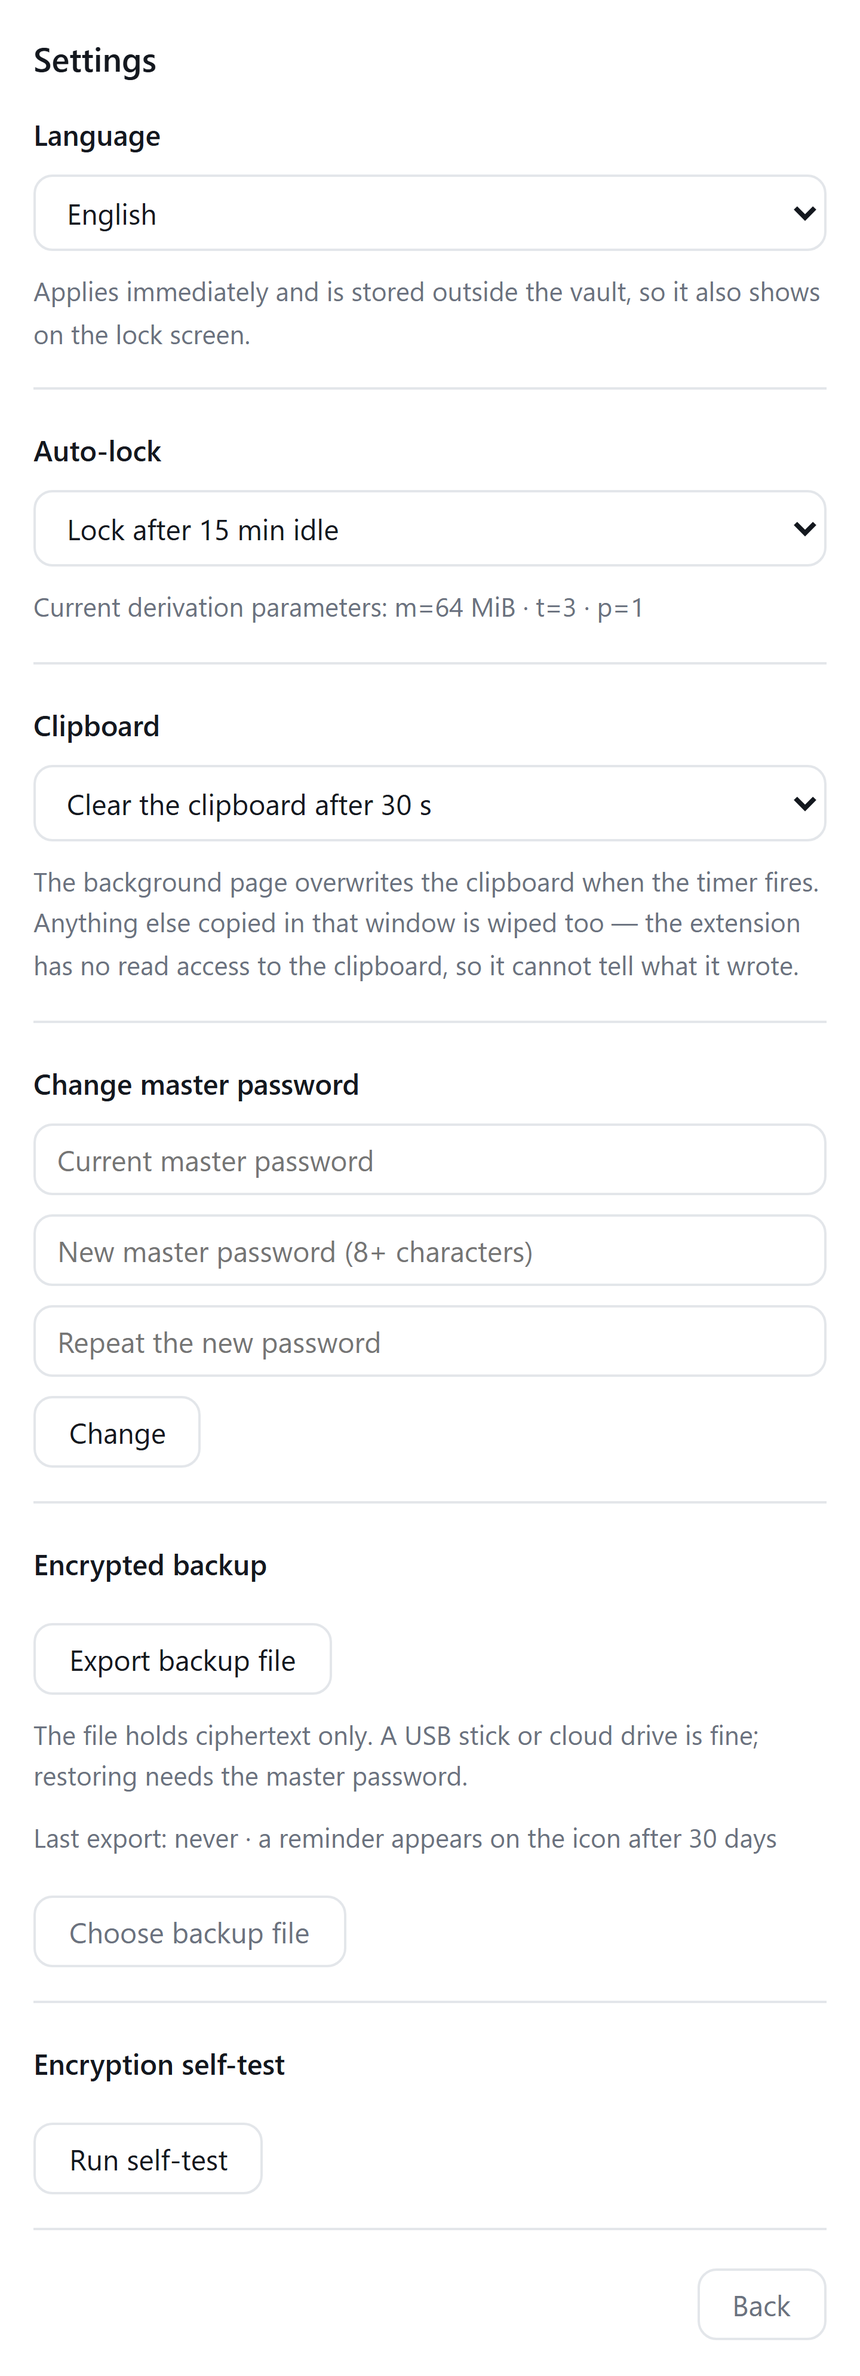
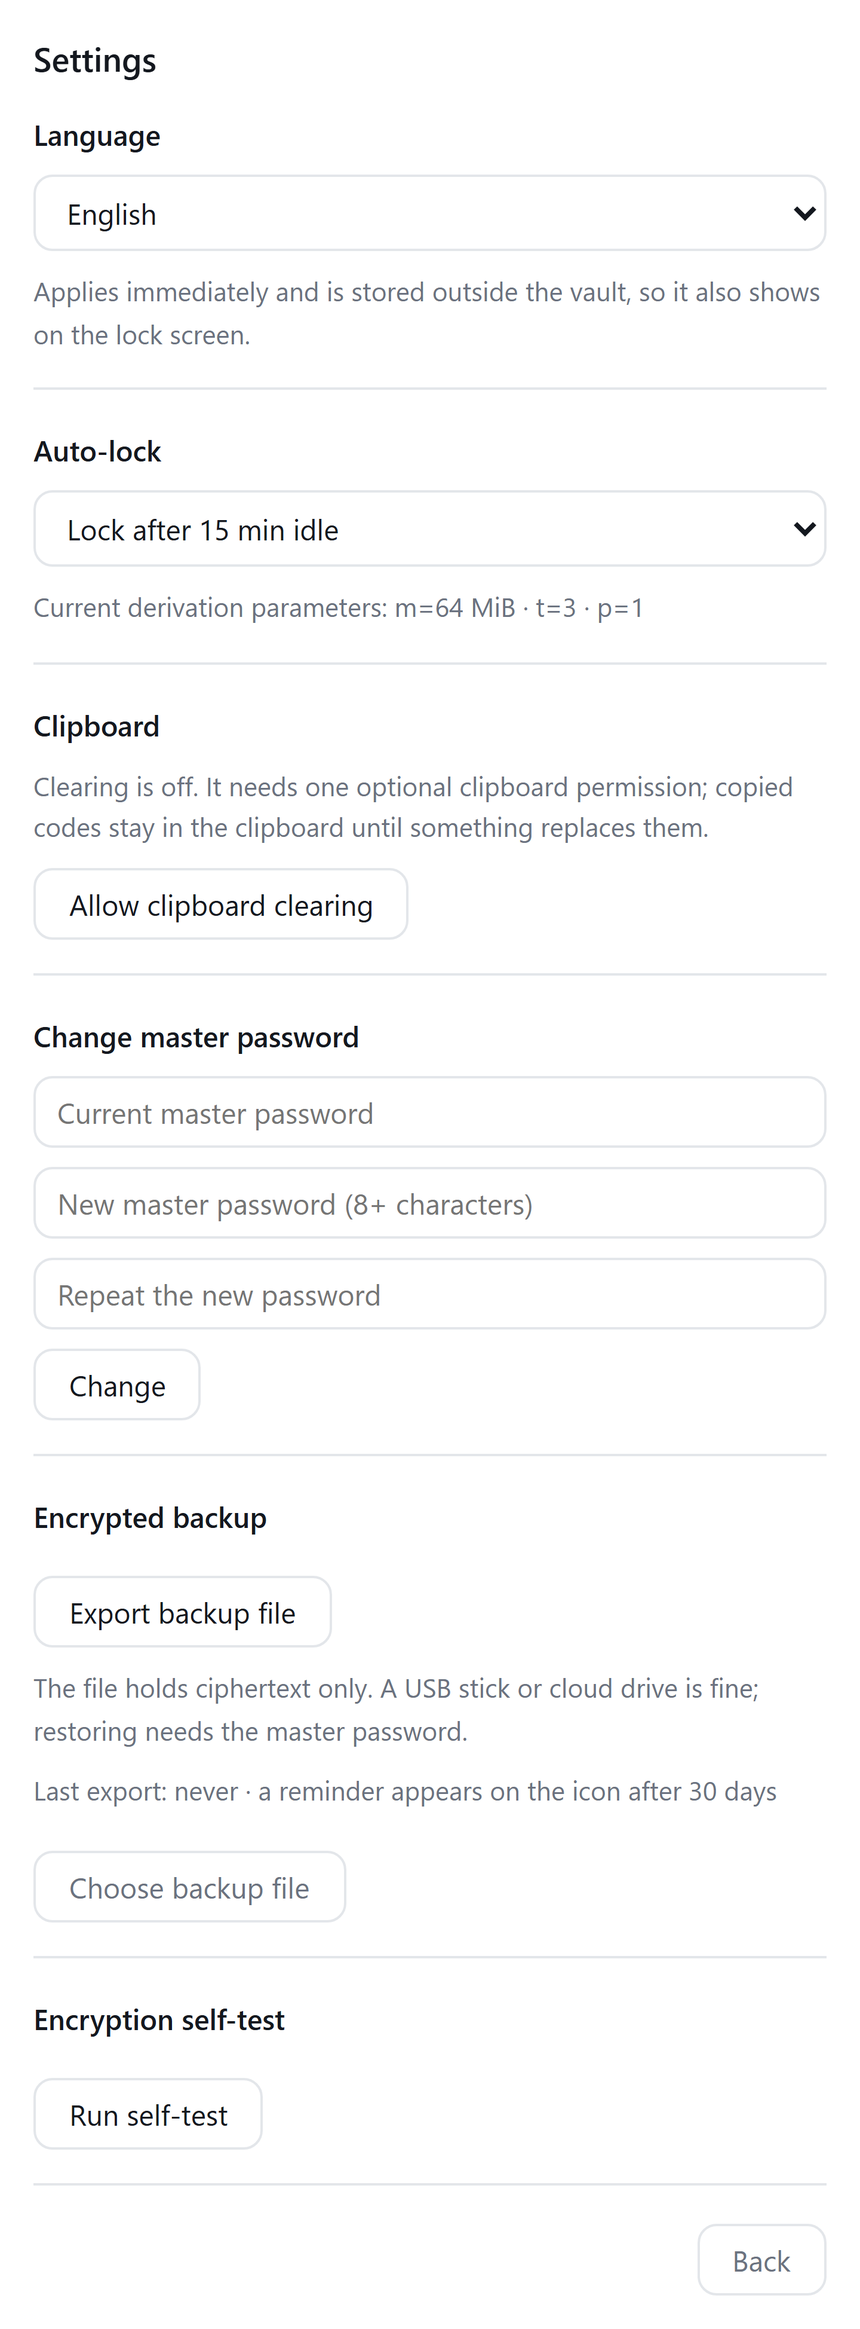
feat: clipboardWrite 改为可选权限，剪贴板清空改为选开
安装提示里出现了「修改你复制的内容」，而这项权限只服务于「到点清空」
这一个动作。改为 optional_permissions 后，安装提示只剩 activeTab。

先验后改，Edge 158 三组对照（.probe/clip-probe.mjs）：

| 状态 | popup 内 writeText | offscreen execCommand |
|---|---|---|
| 无权限 | 成功（有焦点与手势） | 返回 false |
| 有权限 | 成功 | 返回 true |

结论：复制不依赖该权限，清空依赖。

实现
- wxt.config.ts：clipboardWrite 移入 optional_permissions
- lib/clipboard.ts：hasClipboardAccess / requestClipboardAccess，
  并把判断收进 lib/clipboard-policy.ts 的 shouldScheduleClear，
  便于脱离浏览器 API 单测
- 复制路径先查权限，没有就只回「已复制」，不承诺清空
- 设置页：未授权时显示一行说明与「允许扩展清空剪贴板」，
  点击在用户手势内发起申请；授权后出现延时下拉
- 权限被收回时，设置里的旧延时不生效（shouldScheduleClear 拦一道）

词条：八种语言各加四键（说明、授权按钮、授权成功、权限未授予）。

验证
- 新构建在真实 Edge：contains 为 false，复制提示只有 Copied，
  设置页显示未开启与授权按钮
- 同一份产物把权限改回必需：提示变为 Copied · clears in 30 s，
  设置页出现延时下拉，离屏清空返回 true
- 168 项测试通过（新增 clipboard-policy 四项），tsc 0 错误

文档：README 功能表与设置说明、DESIGN 剪贴板节（含对照表）、
VERIFICATION 三行、STORE 权限理由与审核提示、PRIVACY 两版与
privacy.html 的权限表，均标明可选。版本 0.8.1，包 562 KB / 解压 1.43 MB。
截图按新默认状态重拍中英两套。

diff --git a/entrypoints/popup/SettingsPanel.tsx b/entrypoints/popup/SettingsPanel.tsx
@@ -1,4 +1,6 @@
-import { useRef, useState } from 'react';
+import { useEffect, useRef, useState } from 'react';
+import { hasClipboardAccess, requestClipboardAccess } from '../../lib/clipboard';
+import { UserError } from '../../lib/errors';
 import { describeError } from '../../lib/i18n/describe-error';
 import { useI18n } from '../../lib/i18n/react';
 import { LOCALES, type Locale } from '../../lib/i18n/locales';
@@ -56,6 +58,12 @@ export default function SettingsPanel({ status, language, onLanguageChange, onCh
   const [report, setReport] = useState<SelfTestReport | null>(null);
   const fileRef = useRef<HTMLInputElement>(null);
 
+  /** null 表示还没问出结果，此时不渲染剪贴板控件，免得闪一下错误的形态 */
+  const [clipGranted, setClipGranted] = useState<boolean | null>(null);
+  useEffect(() => {
+    void hasClipboardAccess().then(setClipGranted);
+  }, []);
+
   const run = async (tag: string, action: () => Promise<string>) => {
     setBusy(tag);
     setError(null);
@@ -82,6 +90,18 @@ export default function SettingsPanel({ status, language, onLanguageChange, onCh
     run('lock', async () => {
       await vaultService.setSettings({ lockAfterMs: value });
       return t('settings.updatedLock');
+    });
+
+  /** 授权气泡挂在扩展图标上，必须由这次点击触发 */
+  const enableClipboard = () =>
+    run('clipPerm', async () => {
+      const granted = await requestClipboardAccess();
+      setClipGranted(granted);
+      if (!granted) throw new UserError('error.clipboard.permission');
+      if (status.settings.clipboardClearMs <= 0) {
+        await vaultService.setSettings({ clipboardClearMs: 30_000 });
+      }
+      return t('settings.clipEnabled');
     });
 
   const changePassword = () => {
@@ -174,27 +194,39 @@ export default function SettingsPanel({ status, language, onLanguageChange, onCh
 
       <div className="section">
         <div className="section-title">{t('settings.sectionClipboard')}</div>
-        <select
-          className="input"
-          value={status.settings.clipboardClearMs}
-          onChange={(event) =>
-            void run('clip', async () => {
-              await vaultService.setSettings({ clipboardClearMs: Number(event.target.value) });
-              return t('settings.updatedClipboard');
-            })
-          }
-        >
-          {CLIP_OPTIONS.map((option) => (
-            <option key={option.value} value={option.value}>
-              {option.kind === 'never'
-                ? t('settings.clipNever')
-                : option.kind === 'seconds'
-                  ? t('settings.clipSeconds', { n: option.n })
-                  : t('settings.clipMinutes', { n: option.n })}
-            </option>
-          ))}
-        </select>
-        <p className="hint">{t('settings.clipboardHint')}</p>
+        {clipGranted === false && (
+          <>
+            <p className="hint">{t('settings.clipDisabled')}</p>
+            <button className="btn" onClick={enableClipboard} disabled={busy !== null}>
+              {t('settings.clipEnable')}
+            </button>
+          </>
+        )}
+        {clipGranted === true && (
+          <>
+            <select
+              className="input"
+              value={status.settings.clipboardClearMs}
+              onChange={(event) =>
+                void run('clip', async () => {
+                  await vaultService.setSettings({ clipboardClearMs: Number(event.target.value) });
+                  return t('settings.updatedClipboard');
+                })
+              }
+            >
+              {CLIP_OPTIONS.map((option) => (
+                <option key={option.value} value={option.value}>
+                  {option.kind === 'never'
+                    ? t('settings.clipNever')
+                    : option.kind === 'seconds'
+                      ? t('settings.clipSeconds', { n: option.n })
+                      : t('settings.clipMinutes', { n: option.n })}
+                </option>
+              ))}
+            </select>
+            <p className="hint">{t('settings.clipboardHint')}</p>
+          </>
+        )}
       </div>
 
       <div className="section">

diff --git a/lib/clipboard.ts b/lib/clipboard.ts
@@ -7,6 +7,34 @@ export const CLIPBOARD_ALARM = 'mc.clipboard';
 export const MIN_CLEAR_MS = 30_000;
 
 /**
+ * clipboardWrite 是可选权限：装好扩展不等于能写剪贴板。
+ * 不带它时在 popup 点复制照样有效（那里有焦点与用户手势），
+ * 只有 offscreen 里那次无人触发的覆写需要它。
+ */
+export async function hasClipboardAccess(): Promise<boolean> {
+  try {
+    return await browser.permissions.contains({ permissions: ['clipboardWrite'] });
+  } catch {
+    return false;
+  }
+}
+
+/** 必须在用户手势里调用，授权气泡挂在扩展图标上 */
+export async function requestClipboardAccess(): Promise<boolean> {
+  try {
+    return await browser.permissions.request({ permissions: ['clipboardWrite'] });
+  } catch {
+    return false;
+  }
+}
+
+/**
+ * 排清空前要同时满足：用户选了延时、权限在手。
+ * 权限被收回后设置里的旧值仍在，这里再拦一道。
+ */
+export { shouldScheduleClear } from './clipboard-policy';
+
+/**
  * 复制完成后排一次清空。清空本身由 offscreen 执行 —— service worker 没有 DOM，
  * popup 关掉之后也不存在了，只有 offscreen 文档在两者都不在时还活着。
  */
@@ -18,10 +46,4 @@ export async function scheduleClipboardClear(ms: number): Promise<void> {
 
 export async function cancelClipboardClear(): Promise<void> {
   await browser.alarms.clear(CLIPBOARD_ALARM);
-}
-
-export function describeClearDelay(ms: number): string {
-  if (ms <= 0) return '不清空';
-  if (ms % 60_000 === 0) return `${ms / 60_000} 分钟后清空`;
-  return `${Math.round(ms / 1000)} 秒后清空`;
 }

diff --git a/docs/privacy.html b/docs/privacy.html
@@ -60,7 +60,7 @@
     <thead><tr><th>Permission</th><th>Purpose</th></tr></thead>
     <tbody>
       <tr><td><code>storage</code></td><td>Store the encrypted vault and settings</td></tr>
-      <tr><td><code>clipboardWrite</code></td><td>Copy a code to the clipboard and clear it on expiry</td></tr>
+      <tr><td><code>clipboardWrite</code> (optional)</td><td>Clear the clipboard on a timer after a code is copied. Requested only when the user turns clearing on in Settings; copying works without it</td></tr>
       <tr><td><code>idle</code></td><td>Drop the key from memory when the system goes idle or the screen locks</td></tr>
       <tr><td><code>activeTab</code></td><td>Write a code into the current tab after the toolbar icon is clicked</td></tr>
       <tr><td><code>scripting</code></td><td>Perform that write</td></tr>
@@ -96,7 +96,7 @@
       <thead><tr><th>权限</th><th>用途</th></tr></thead>
       <tbody>
         <tr><td><code>storage</code></td><td>保存加密后的保险库与设置</td></tr>
-        <tr><td><code>clipboardWrite</code></td><td>把验证码写入剪贴板，并在到期后清空</td></tr>
+        <tr><td><code>clipboardWrite</code>（可选）</td><td>复制验证码后按时清空剪贴板。仅在用户在设置里开启清空时申请，不授权也能正常复制</td></tr>
         <tr><td><code>idle</code></td><td>系统空闲或锁屏时立即丢弃内存中的密钥</td></tr>
         <tr><td><code>activeTab</code></td><td>用户点开扩展图标后，向当前标签页写入验证码</td></tr>
         <tr><td><code>scripting</code></td><td>执行上述写入动作所需的注入</td></tr>

diff --git a/lib/i18n/messages/ja.ts b/lib/i18n/messages/ja.ts
@@ -119,6 +119,9 @@ export const ja: Record<MessageKey, string> = {
   'settings.clipNever': 'コピー後もクリップボードを保持',
   'settings.clipSeconds': '{n}秒後にクリップボードを消去',
   'settings.clipMinutes': '{n}分後にクリップボードを消去',
+  'settings.clipDisabled': 'オフです。クリップボードの権限（任意）が必要です。オフのままでは、コピーしたコードは別の内容で上書きされるまで残ります。',
+  'settings.clipEnable': 'クリップボードの消去を許可',
+  'settings.clipEnabled': 'クリップボードの消去を有効にしました',
   'settings.clipboardHint':
     '時間が来るとバックグラウンドページがクリップボードを上書きします。その間にコピーした別の内容も消えます。拡張機能はクリップボードの読み取り権限を持たないため、自分が書いた内容かどうかを判別できません。',
   'settings.sectionPassword': 'マスターパスワードの変更',
@@ -206,6 +209,7 @@ export const ja: Record<MessageKey, string> = {
   'error.qr.capture': 'スクリーンショットに失敗しました',
   'error.qr.none': 'このページに QR コードが見つかりません',
   'error.qr.notOtp': 'QR コードは OTP の情報ではありません',
+  'error.clipboard.permission': 'クリップボードの権限が許可されませんでした',
 
   'fill.filled': '入力しました',
   'fill.filledSplit': '{n} 個の欄に入力しました',

diff --git a/lib/i18n/messages/ko.ts b/lib/i18n/messages/ko.ts
@@ -122,6 +122,9 @@ export const ko: Record<MessageKey, string> = {
   'settings.clipNever': '복사해도 클립보드 유지',
   'settings.clipSeconds': '복사 후 {n}초 뒤 클립보드 삭제',
   'settings.clipMinutes': '복사 후 {n}분 뒤 클립보드 삭제',
+  'settings.clipDisabled': '꺼져 있습니다. 선택 권한인 클립보드 권한이 필요합니다. 끈 상태에서는 복사한 코드가 다른 내용으로 덮어쓰일 때까지 남습니다.',
+  'settings.clipEnable': '클립보드 지우기 허용',
+  'settings.clipEnabled': '클립보드 지우기를 켰습니다',
   'settings.clipboardHint':
     '시간이 되면 백그라운드 페이지가 클립보드를 덮어씁니다. 그 사이에 복사한 다른 내용도 함께 지워집니다. 확장은 클립보드를 읽을 권한이 없어 자기가 쓴 내용인지 구분할 수 없습니다.',
   'settings.oldPassword': '현재 마스터 비밀번호',
@@ -205,6 +208,7 @@ export const ko: Record<MessageKey, string> = {
   'error.qr.capture': '스크린샷에 실패했습니다',
   'error.qr.none': '이 페이지에서 QR 코드를 찾지 못했습니다',
   'error.qr.notOtp': 'QR 코드가 OTP 정보가 아닙니다',
+  'error.clipboard.permission': '클립보드 권한이 허용되지 않았습니다',
 
   'fill.filled': '입력했습니다',
   'fill.filledSplit': '{n}칸에 입력했습니다',

diff --git a/lib/i18n/messages/fr.ts b/lib/i18n/messages/fr.ts
@@ -123,6 +123,9 @@ export const fr: Record<MessageKey, string> = {
   'settings.clipNever': 'Conserver le presse-papiers',
   'settings.clipSeconds': 'Effacer le presse-papiers dans {n} s',
   'settings.clipMinutes': 'Effacer le presse-papiers dans {n} min',
+  'settings.clipDisabled': 'Désactivé. Une autorisation facultative du presse-papiers est nécessaire ; sinon les codes copiés y restent jusqu’à remplacement.',
+  'settings.clipEnable': 'Autoriser l’effacement du presse-papiers',
+  'settings.clipEnabled': 'Effacement du presse-papiers activé',
   'settings.clipboardHint':
     'La page d’arrière-plan écrase le presse-papiers à l’échéance. Tout autre contenu copié entre-temps disparaît aussi : l’extension n’a pas le droit de lire le presse-papiers et ne peut pas distinguer son propre contenu.',
   'settings.sectionPassword': 'Changer le mot de passe principal',
@@ -212,6 +215,7 @@ export const fr: Record<MessageKey, string> = {
   'error.qr.capture': 'La capture a échoué',
   'error.qr.none': 'Aucun QR code trouvé sur cette page',
   'error.qr.notOtp': 'Le QR code ne contient pas de données OTP',
+  'error.clipboard.permission': 'L’autorisation du presse-papiers n’a pas été accordée',
 
   'fill.filled': 'Rempli',
   'fill.filledSplit': 'Rempli {n} cases',

diff --git a/lib/i18n/messages/de.ts b/lib/i18n/messages/de.ts
@@ -123,6 +123,9 @@ export const de: Record<MessageKey, string> = {
   'settings.clipNever': 'Zwischenablage behalten',
   'settings.clipSeconds': 'Zwischenablage nach {n} s löschen',
   'settings.clipMinutes': 'Zwischenablage nach {n} Min. löschen',
+  'settings.clipDisabled': 'Aus. Dafür ist eine optionale Berechtigung für die Zwischenablage nötig; kopierte Codes bleiben sonst, bis etwas anderes sie überschreibt.',
+  'settings.clipEnable': 'Löschen der Zwischenablage erlauben',
+  'settings.clipEnabled': 'Löschen der Zwischenablage aktiviert',
   'settings.clipboardHint':
     'Zum Ablauf überschreibt die Hintergrundseite die Zwischenablage. Anderes Kopiertes in diesem Zeitraum wird mitgelöscht — die Erweiterung darf die Zwischenablage nicht lesen und erkennt ihren eigenen Inhalt nicht.',
   'settings.sectionPassword': 'Master-Passwort ändern',
@@ -212,6 +215,7 @@ export const de: Record<MessageKey, string> = {
   'error.qr.capture': 'Der Screenshot ist fehlgeschlagen',
   'error.qr.none': 'Auf dieser Seite wurde kein QR-Code gefunden',
   'error.qr.notOtp': 'Der QR-Code enthält keine OTP-Daten',
+  'error.clipboard.permission': 'Die Berechtigung für die Zwischenablage wurde nicht erteilt',
 
   'fill.filled': 'Eingetragen',
   'fill.filledSplit': 'In {n} Felder eingetragen',

diff --git a/lib/i18n/messages/es.ts b/lib/i18n/messages/es.ts
@@ -123,6 +123,9 @@ export const es: Record<MessageKey, string> = {
   'settings.clipNever': 'Conservar el portapapeles',
   'settings.clipSeconds': 'Borrar el portapapeles en {n} s',
   'settings.clipMinutes': 'Borrar el portapapeles en {n} min',
+  'settings.clipDisabled': 'Desactivado. Requiere un permiso opcional del portapapeles; si no, los códigos copiados permanecen hasta que otro contenido los sustituya.',
+  'settings.clipEnable': 'Permitir borrar el portapapeles',
+  'settings.clipEnabled': 'Borrado del portapapeles activado',
   'settings.clipboardHint':
     'La página de fondo sobrescribe el portapapeles al vencer el plazo. Lo que se copie mientras tanto también se borra: la extensión no puede leer el portapapeles y no distingue su propio contenido.',
   'settings.sectionPassword': 'Cambiar la contraseña maestra',
@@ -212,6 +215,7 @@ export const es: Record<MessageKey, string> = {
   'error.qr.capture': 'La captura ha fallado',
   'error.qr.none': 'No se encontró ningún código QR en esta página',
   'error.qr.notOtp': 'El código QR no contiene datos OTP',
+  'error.clipboard.permission': 'No se concedió el permiso del portapapeles',
 
   'fill.filled': 'Rellenado',
   'fill.filledSplit': 'Rellenadas {n} casillas',

diff --git a/lib/i18n/messages/zh-TW.ts b/lib/i18n/messages/zh-TW.ts
@@ -117,6 +117,9 @@ export const zhTW: Record<MessageKey, string> = {
   'settings.clipNever': '複製後不清除',
   'settings.clipSeconds': '複製後 {n} 秒清除',
   'settings.clipMinutes': '複製後 {n} 分鐘清除',
+  'settings.clipDisabled': '未開啟。需要授予一項可選的剪貼簿權限；未開啟時，複製的驗證碼會留在剪貼簿裡，直到被其他內容取代。',
+  'settings.clipEnable': '允許擴充功能清空剪貼簿',
+  'settings.clipEnabled': '已開啟剪貼簿清空',
   'settings.clipboardHint':
     '時間到由背景頁覆寫剪貼簿。這段期間複製的其他內容也會一併被清掉 —— 擴充功能沒有讀取剪貼簿的權限，分辨不出目前內容是不是自己寫的。',
   'settings.sectionPassword': '更換主密碼',
@@ -203,6 +206,7 @@ export const zhTW: Record<MessageKey, string> = {
   'error.qr.capture': '截圖失敗',
   'error.qr.none': '目前頁面沒有辨識到 QR 碼',
   'error.qr.notOtp': '辨識到的 QR 碼不是驗證碼設定',
+  'error.clipboard.permission': '未取得剪貼簿權限',
 
   'fill.filled': '已填入',
   'fill.filledSplit': '已填入 {n} 格',

diff --git a/entrypoints/popup/App.tsx b/entrypoints/popup/App.tsx
@@ -1,5 +1,5 @@
 import { useCallback, useEffect, useState } from 'react';
-import { scheduleClipboardClear } from '../../lib/clipboard';
+import { scheduleClipboardClear, hasClipboardAccess, shouldScheduleClear } from '../../lib/clipboard';
 import { describeError } from '../../lib/i18n/describe-error';
 import { useI18n } from '../../lib/i18n/react';
 import { getLanguagePreference, applyLanguagePreference } from '../../lib/i18n/preference';
@@ -93,8 +93,10 @@ export default function App() {
     try {
       await navigator.clipboard.writeText(view.code);
       const clearMs = status?.settings.clipboardClearMs ?? 0;
-      await scheduleClipboardClear(clearMs);
-      const delay = clearMs > 0 ? clearLabel(clearMs) : '';
+      /** 清空要跑在无焦点的 offscreen 里，只有拿到 clipboardWrite 才做得到 */
+      const scheduled = shouldScheduleClear(clearMs, clearMs > 0 && (await hasClipboardAccess()));
+      if (scheduled) await scheduleClipboardClear(clearMs);
+      const delay = scheduled ? clearLabel(clearMs) : '';
       if (view.type === 'hotp') {
         await vaultService.bumpCounter(view.id);
         await refresh();

diff --git a/lib/i18n/messages/zh-CN.ts b/lib/i18n/messages/zh-CN.ts
@@ -117,6 +117,9 @@ export const zhCN: Record<MessageKey, string> = {
   'settings.clipNever': '复制后不清空',
   'settings.clipSeconds': '复制后 {n} 秒清空',
   'settings.clipMinutes': '复制后 {n} 分钟清空',
+  'settings.clipDisabled': '未开启。需要授予一项可选的剪贴板权限；不开启时，复制的验证码会留在剪贴板里，直到被其他内容替换。',
+  'settings.clipEnable': '允许扩展清空剪贴板',
+  'settings.clipEnabled': '已开启剪贴板清空',
   'settings.clipboardHint':
     '到点由后台覆写剪贴板。这期间复制了别的内容也会被一并清掉 —— 扩展不申请读取剪贴板的权限，分辨不出当前内容是不是自己写的。',
   'settings.sectionPassword': '更换主密码',
@@ -203,6 +206,7 @@ export const zhCN: Record<MessageKey, string> = {
   'error.qr.capture': '截图失败',
   'error.qr.none': '当前页没有识别到二维码',
   'error.qr.notOtp': '识别到的二维码不是验证码配置',
+  'error.clipboard.permission': '未获得剪贴板权限',
 
   'fill.filled': '已填入',
   'fill.filledSplit': '已填入 {n} 格',

diff --git a/lib/i18n/messages/en.ts b/lib/i18n/messages/en.ts
@@ -130,6 +130,9 @@ export const en = {
   'settings.clipNever': 'Keep the clipboard after copying',
   'settings.clipSeconds': 'Clear the clipboard after {n} s',
   'settings.clipMinutes': 'Clear the clipboard after {n} min',
+  'settings.clipDisabled': 'Clearing is off. It needs one optional clipboard permission; copied codes stay in the clipboard until something replaces them.',
+  'settings.clipEnable': 'Allow clipboard clearing',
+  'settings.clipEnabled': 'Clipboard clearing enabled',
   'settings.clipboardHint':
     'The background page overwrites the clipboard when the timer fires. Anything else copied in that window is wiped too — the extension has no read access to the clipboard, so it cannot tell what it wrote.',
   'settings.sectionPassword': 'Change master password',
@@ -219,6 +222,7 @@ export const en = {
   'error.qr.capture': 'The screenshot failed',
   'error.qr.none': 'No QR code found on this page',
   'error.qr.notOtp': 'The QR code is not an OTP payload',
+  'error.clipboard.permission': 'The clipboard permission was not granted',
 
   // 填入
   'fill.filled': 'Filled',
